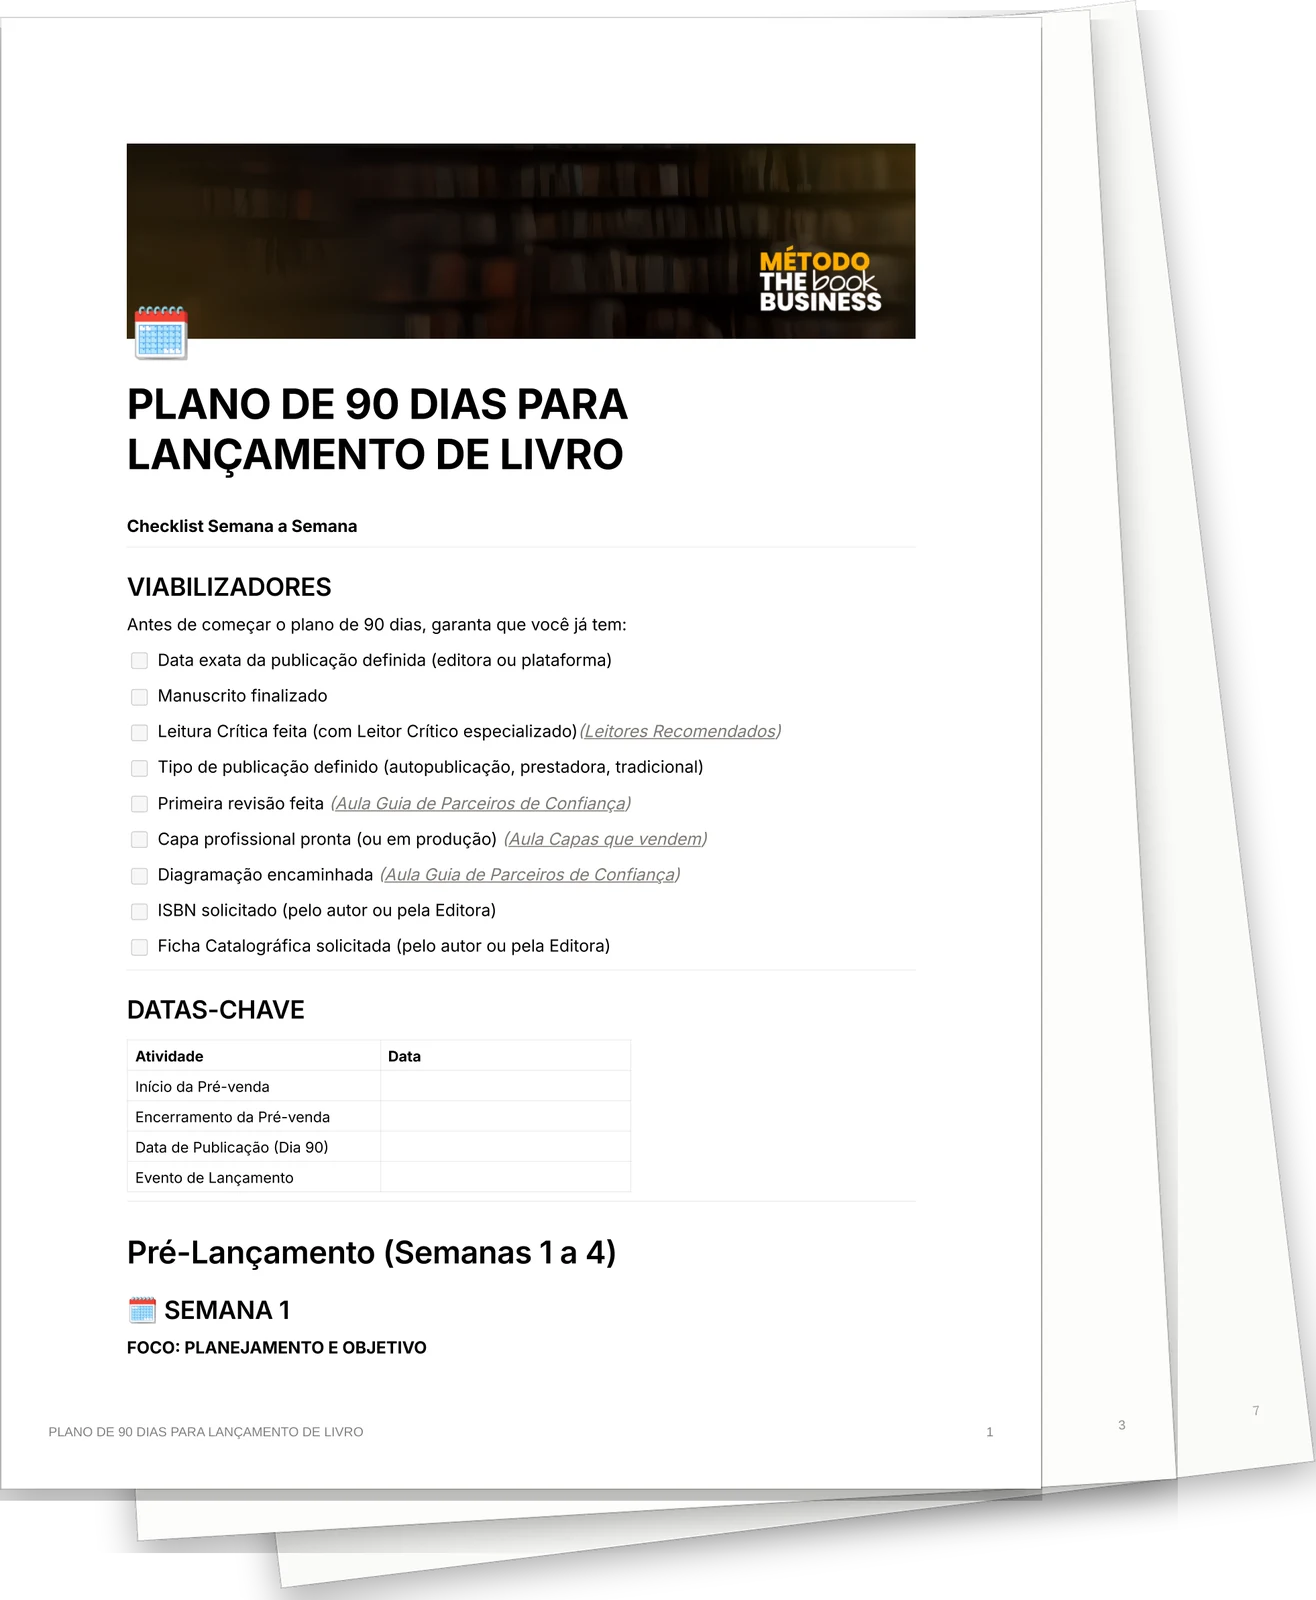
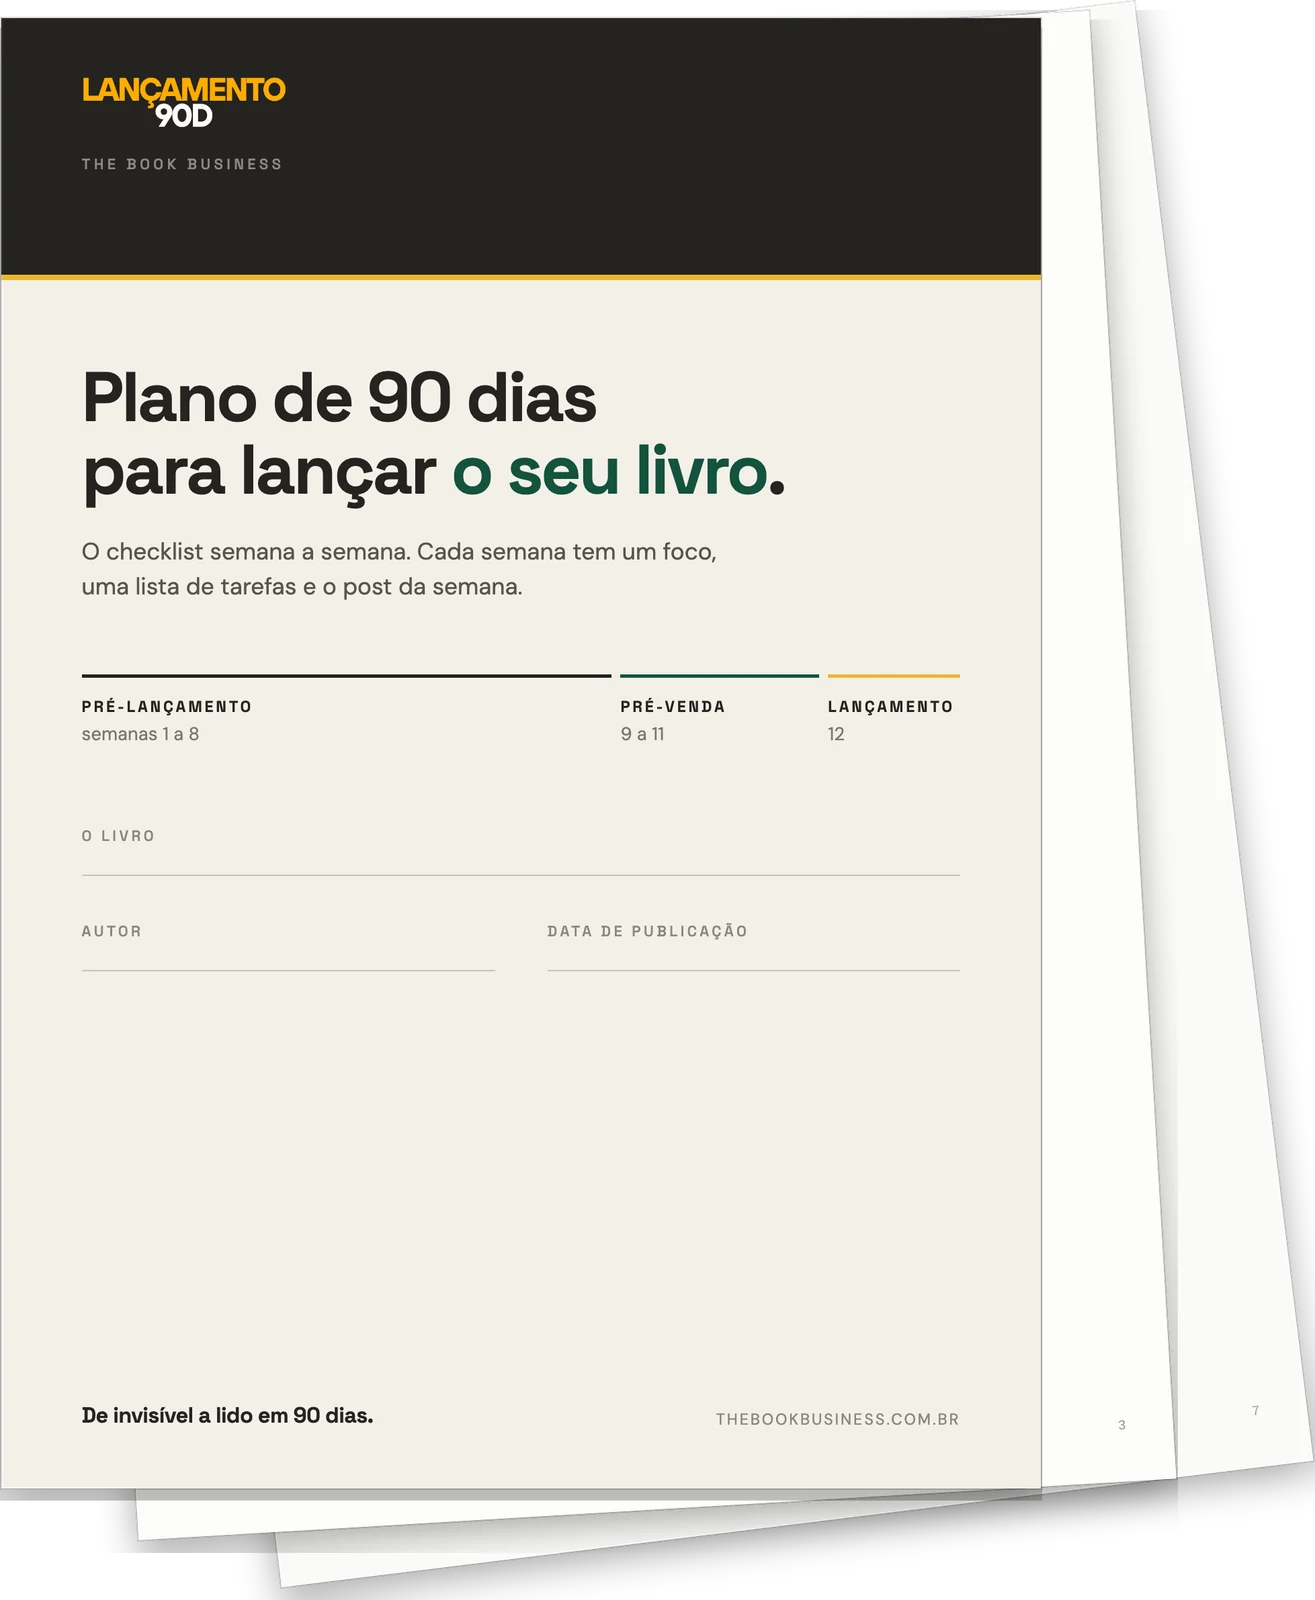
90d: capa nova pro PDF do plano, e o leque refeito com ela
A pagina 1 era exportacao de Google Docs: banner generico de estante,
emoji de calendario solto e titulo em fonte de sistema. Vira capa de
verdade na tipografia e na paleta da pagina, com a regua dos tres atos e
os campos que o autor preenche (livro, autor, data de publicacao), que e o
que faz o documento virar dele.

A fonte HTML fica em lancamento90d/capa-plano/ pra poder regerar.

diff --git a/lancamento90d/capa-plano/index.html b/lancamento90d/capa-plano/index.html
@@ -1,0 +1,78 @@
+<!doctype html>
+<html lang="pt-BR"><head><meta charset="utf-8">
+<link rel="preconnect" href="https://fonts.googleapis.com">
+<link rel="preconnect" href="https://fonts.gstatic.com" crossorigin>
+<link href="https://fonts.googleapis.com/css2?family=Space+Grotesk:wght@500;700&family=DM+Sans:opsz,wght@9..40,400;9..40,500&display=swap" rel="stylesheet">
+<style>
+  @page{size:A4;margin:0}
+  *{box-sizing:border-box}
+  html,body{margin:0;padding:0}
+  body{width:595px;height:842px;background:#F3F0E8;color:#242320;
+    font-family:'DM Sans',sans-serif;position:relative;overflow:hidden}
+
+  /* faixa carvao no topo, com o fio dourado embaixo */
+  .topo{height:150px;background:#242320;padding:34px 46px 0;position:relative}
+  .topo:after{content:'';position:absolute;left:0;right:0;bottom:0;height:3px;background:#EAB82D}
+  .topo .marca{height:30px;width:auto;display:block}
+  .topo .casa{margin:14px 0 0;font-family:'Space Grotesk',sans-serif;font-weight:500;
+    font-size:8.5px;letter-spacing:.24em;text-transform:uppercase;color:rgba(243,240,232,.5)}
+
+  .corpo{padding:46px 46px 0}
+  h1{font-family:'Space Grotesk',sans-serif;font-weight:700;font-size:40px;line-height:1.04;
+    letter-spacing:-.035em;margin:0}
+  h1 em{font-style:normal;color:#14523E}
+  .sub{margin:16px 0 0;font-size:13.5px;line-height:1.5;color:#57544D;max-width:40ch}
+
+  /* os tres atos, como regua */
+  .regua{margin:40px 0 0;display:grid;grid-template-columns:8fr 3fr 2fr;gap:5px}
+  .regua div{padding-top:11px;border-top:2px solid #C9C3B4}
+  .regua div:nth-child(1){border-color:#242320}
+  .regua div:nth-child(2){border-color:#14523E}
+  .regua div:nth-child(3){border-color:#EAB82D}
+  .regua b{display:block;font-family:'Space Grotesk',sans-serif;font-weight:700;font-size:9px;
+    letter-spacing:.16em;text-transform:uppercase;color:#242320}
+  .regua span{display:block;margin-top:3px;font-size:10.5px;color:#7A766C}
+
+  /* os campos que o autor preenche: e' o que faz o documento virar dele */
+  .campos{margin:46px 0 0;display:grid;gap:26px}
+  .campos p{margin:0;font-family:'Space Grotesk',sans-serif;font-weight:500;font-size:8.5px;
+    letter-spacing:.2em;text-transform:uppercase;color:#8A867C}
+  .campos .fio{margin-top:17px;border-bottom:1px solid #C9C3B4}
+  .duo{display:grid;grid-template-columns:1fr 1fr;gap:30px}
+
+  .rodape{position:absolute;left:46px;right:46px;bottom:34px;display:flex;
+    justify-content:space-between;align-items:flex-end}
+  .rodape .frase{font-family:'Space Grotesk',sans-serif;font-weight:700;font-size:12.5px;
+    letter-spacing:-.02em;color:#242320;max-width:30ch;line-height:1.3}
+  .rodape .site{font-size:9px;letter-spacing:.12em;text-transform:uppercase;color:#8A867C}
+</style></head>
+<body>
+  <div class="topo">
+    <img class="marca" src="logo.webp" alt="Lançamento 90D">
+    <p class="casa">The Book Business</p>
+  </div>
+
+  <div class="corpo">
+    <h1>Plano de 90 dias<br>para lançar <em>o seu livro</em>.</h1>
+    <p class="sub">O checklist semana a semana. Cada semana tem um foco, uma lista de tarefas e o post da semana.</p>
+
+    <div class="regua">
+      <div><b>Pré-lançamento</b><span>semanas 1 a 8</span></div>
+      <div><b>Pré-venda</b><span>9 a 11</span></div>
+      <div><b>Lançamento</b><span>12</span></div>
+    </div>
+
+    <div class="campos">
+      <div><p>O livro</p><div class="fio"></div></div>
+      <div class="duo">
+        <div><p>Autor</p><div class="fio"></div></div>
+        <div><p>Data de publicação</p><div class="fio"></div></div>
+      </div>
+    </div>
+  </div>
+
+  <div class="rodape">
+    <span class="frase">De invisível a lido em 90 dias.</span>
+    <span class="site">thebookbusiness.com.br</span>
+  </div>
+</body></html>
